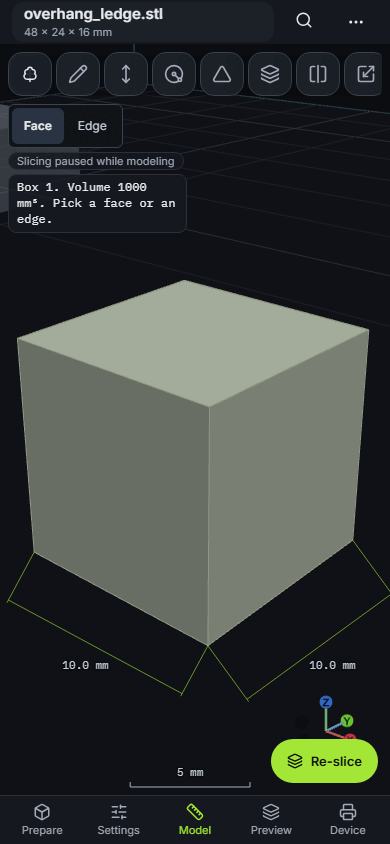
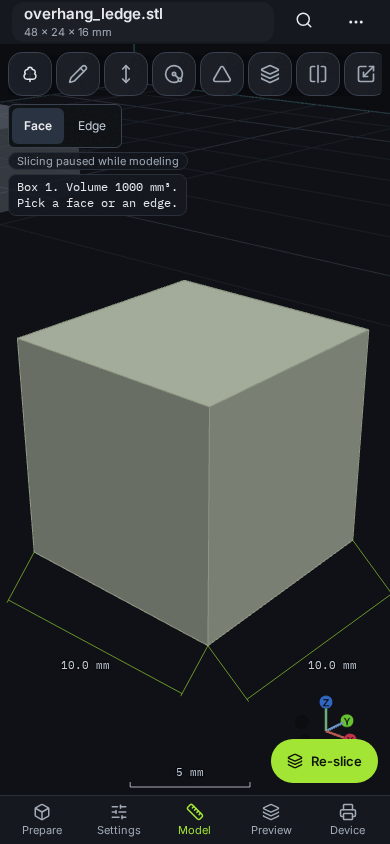
docs: refresh the README for 7.0.0, except the GT2 pulley
One Parts bullet for fasteners, fittings and brackets, the lust 0.3.2 line, the faster rib planner, and the buckling picture. Retake the lettering, phone and escapement pictures that changed on screen.

diff --git a/tools/readme-media/ribs.media.ts b/tools/readme-media/ribs.media.ts
@@ -1,0 +1,188 @@
+import { expect, test, type Page } from "@playwright/test";
+import { openApp, still } from "./media";
+
+/**
+ * Auto ribs with Resist buckling (docs/readme-media.md): a 64 × 40 × 14 mm box, shelled to a 2 mm wall with the top
+ * open, planned on the inner floor. The force along the floor is raised until the card says "Buckles at", so the
+ * numbers in the picture are the engine's. The part is built here. Nothing is loaded from outside the repository.
+ */
+const BOX = { modelDx: "64", modelDy: "40", modelDz: "14" };
+const TOP_MM2 = 64 * 40;
+const FLOOR_MM2 = (64 - 4) * (40 - 4);
+
+test("resist buckling on a shelled box", async ({ page }) => {
+  test.setTimeout(900_000);
+  await page.addInitScript(() => localStorage.setItem("lime-slice-auto-slice", "0"));
+  await openApp(page);
+  await page.locator("#tabModel").click();
+  await page.locator("#modelToolNew").click();
+  await page.locator('#modelPrim [data-kind="box"]').click();
+  for (const [id, value] of Object.entries(BOX)) await page.locator(`#${id}`).fill(value);
+  await page.locator("#modelApply").click();
+  await expect(page.locator("#modelReadout")).toContainText("Volume", { timeout: 120_000 });
+  await expect(page.locator("#modelPanel")).toBeHidden();
+
+  const top = await holeOrigin(page);
+  await page.locator("#modelToolShell").click();
+  await expect(page.locator("#modelShell")).toBeVisible();
+  await page.mouse.click(top.x, top.y);
+  await expect(page.locator("#modelReadout")).toContainText(`${TOP_MM2} mm²`);
+  await fill(page, "modelShell", "2");
+  await page.locator("#modelApply").click();
+  await expect.poll(async () => volume(page), { timeout: 120_000 }).toBeLessThan(15_000);
+
+  await page.locator("#modelFeatureMore").click();
+  await page.locator("#modelMenuAutoRibs").click();
+  await expect(page.locator("#modelPanelTitle")).toHaveText("Auto ribs");
+  await lookDown(page);
+  await page.locator("#autoRibsJustThis").check();
+  const floor = await innerFloor(page);
+  await expect(page.locator("#autoRibsWallLine")).toContainText("wall 2 mm");
+
+  await page.locator("#autoRibsHowMuch > summary").click();
+  await page.getByRole("button", { name: "Resist buckling" }).click();
+  await expect(page.locator("#autoRibsSliderMid")).toHaveText("3×");
+  await page.locator("#autoRibsHoldLoad > summary").click();
+  await page.locator("#autoRibsLoadForce").click();
+  await fill(page, "autoRibsDirX", "1");
+  await fill(page, "autoRibsDirY", "0");
+  await fill(page, "autoRibsDirZ", "0");
+  await fill(page, "autoRibsForce", "200");
+  await page.locator("#autoRibsLoadPick").click();
+  await page.mouse.click(floor.x, floor.y);
+
+  let force = 200;
+  let gain = "";
+  for (let attempt = 0; attempt < 3; attempt += 1) {
+    const field = page.locator("#autoRibsForce");
+    await field.scrollIntoViewIfNeeded();
+    await field.fill(String(force));
+    await field.press("Tab");
+    await expect(field).toHaveValue(String(force));
+    const previous = (await page.locator("#autoRibsGain").innerText()).trim();
+    await page.locator("#modelApply").click();
+    let outcome = "";
+    await expect.poll(async () => {
+      const error = page.locator("#autoRibsError");
+      if (await error.isVisible()) outcome = `error:${(await error.innerText()).trim()}`;
+      else if (await page.locator("#autoRibsGain").isVisible()) {
+        const text = (await page.locator("#autoRibsGain").innerText()).trim();
+        outcome = text && text !== previous ? `gain:${text}` : "";
+      } else outcome = "";
+      return outcome;
+    }, { timeout: 240_000 }).not.toBe("");
+    if (outcome.startsWith("error:")) throw new Error(`auto ribs: ${outcome.slice(6)}`);
+    gain = outcome.slice(5);
+    const held = /The wall already holds ([\d.]+)×/.exec(gain);
+    if (!held) break;
+    const factor = Number(held[1]);
+    const next = Math.max(force + 1, Math.ceil((force * factor) / 2.5));
+    console.log(`force ${force} N already holds ${factor}×; trying ${next} N`);
+    force = next;
+  }
+  await expect(page.locator("#autoRibsGain")).toHaveText(/^Buckles at \d+(\.\d)?× the load \(was \d+(\.\d)?×\)\.$/);
+  await expect(page.locator("#autoRibsNotes")).toContainText("This is the ideal buckling load. A curved wall, or one that isn't perfectly flat, can buckle well below it.");
+  await expect(page.locator(".toast-error")).toHaveCount(0);
+
+  await page.locator("#autoRibsNotes").scrollIntoViewIfNeeded();
+  await page.locator("#autoRibsGain").scrollIntoViewIfNeeded();
+  const box = (await page.locator("#model").boundingBox())!;
+  await page.mouse.move(box.x + 8, box.y + box.height - 8);
+  await page.waitForTimeout(600);
+  gain = (await page.locator("#autoRibsGain").innerText()).trim();
+  const notes = (await page.locator("#autoRibsNotes").innerText()).trim();
+  console.log(`ribs-buckling force ${force} N`);
+  console.log(`ribs-buckling gain: ${gain}`);
+  console.log(`ribs-buckling notes: ${notes}`);
+  await still(page, "ribs-buckling.png");
+});
+
+async function fill(page: Page, id: string, value: string) {
+  const field = page.locator(`#${id}`);
+  await field.fill(value);
+  await field.press("Tab");
+}
+
+async function volume(page: Page): Promise<number> {
+  const text = await page.locator("#modelReadout").innerText();
+  const match = /Volume ([\d.,]+) mm³/.exec(text);
+  return match ? Number(match[1]!.replace(/,/g, "")) : Number.NaN;
+}
+
+/** The Hole tool's origin dot, which the window puts on the middle of the top face. */
+async function holeOrigin(page: Page): Promise<{ x: number; y: number }> {
+  await page.locator("#modelToolHole").click();
+  await expect.poll(async () => handleAt(page, "hole-origin")).not.toBeNull();
+  const at = (await handleAt(page, "hole-origin"))!;
+  await page.locator("#modelCancel").click();
+  await expect(page.locator("#modelPanel")).toBeHidden();
+  return at;
+}
+
+async function handleAt(page: Page, id: string): Promise<{ x: number; y: number } | null> {
+  const text = (await page.locator("#model").getAttribute("data-handles")) ?? "";
+  const box = await page.locator("#model").boundingBox();
+  if (!box) return null;
+  for (const item of text.split(" ").filter(Boolean)) {
+    const [name, at] = item.split(":");
+    if (name !== id || !at) continue;
+    const [x, y] = at.split(",").map(Number);
+    if (x === undefined || y === undefined || Number.isNaN(x) || Number.isNaN(y)) continue;
+    return { x: box.x + x, y: box.y + y };
+  }
+  return null;
+}
+
+/** Top view, so the open top shows the inner floor. T is the Model command; blur first so it is not typed into a field. */
+async function lookDown(page: Page) {
+  await page.evaluate(() => {
+    const active = document.activeElement;
+    if (active instanceof HTMLElement) active.blur();
+  });
+  await page.keyboard.press("t");
+  await page.waitForTimeout(400);
+}
+
+/**
+ * Click the inner floor. Each try starts from a clear wall, because a click toggles the face it hits.
+ * The floor is the single face of about (64 − 4) × (40 − 4) mm², 2 mm thick.
+ */
+async function innerFloor(page: Page): Promise<{ x: number; y: number }> {
+  const box = (await page.locator("#model").boundingBox())!;
+  const points: { x: number; y: number }[] = [];
+  for (let row = 0; row < 5; row += 1) {
+    for (let col = 0; col < 5; col += 1) {
+      points.push({ x: box.x + box.width * (0.42 + col * 0.04), y: box.y + box.height * (0.42 + row * 0.04) });
+    }
+  }
+  let last = "";
+  for (const at of points) {
+    const clear = page.locator("#autoRibsWallClear");
+    if (await clear.isVisible()) await clear.click();
+    const hit = await clickFloor(page, at);
+    last = (await page.locator("#autoRibsWallLine").innerText()).replace(/\s+/g, " ");
+    if (hit) {
+      console.log(`inner floor: ${last}`);
+      return at;
+    }
+  }
+  await page.screenshot({ path: "/tmp/ribs-floor-miss.png" });
+  throw new Error(`inner floor (~${FLOOR_MM2} mm²) was not found; last wall line: ${last}`);
+}
+
+async function clickFloor(page: Page, at: { x: number; y: number }): Promise<boolean> {
+  const line = page.locator("#autoRibsWallLine");
+  await page.mouse.click(at.x, at.y);
+  let text = "";
+  try {
+    await expect.poll(async () => {
+      text = await line.innerText();
+      return /wall /.test(text) && !/reading/.test(text);
+    }, { timeout: 8_000 }).toBe(true);
+  } catch {
+    return false;
+  }
+  text = await line.innerText();
+  const area = Number(/([\d,]+) mm²/.exec(text)?.[1]?.replace(/,/g, ""));
+  return /^1 face/.test(text) && /wall 2 mm/.test(text) && Math.abs(area - FLOOR_MM2) < 200;
+}

diff --git a/README.md b/README.md
@@ -14,22 +14,20 @@ The pictures are the web UI in the dark theme against a local engine with the Op
 
 ### Model a part
 
-Model edits a STEP solid, or starts one from a primitive, a gear, a fastener, a fitting, a plate, an L-bracket, or a sketch on the bed or on a flat face. The sketcher has its own constraint solver: it keeps lines horizontal, vertical, square or equal as you draw, and a size can be a number or an expression that names a parameter. From a sketch you extrude, revolve, loft, sweep, or drill holes. On the solid you push and pull faces, fillet and chamfer edges, draft walls, shell, split, pattern, mirror and join, and add text. Every step goes into History, where you can reopen it with new numbers and the steps after it are built again.
+Model edits a STEP solid, or starts one from a primitive, a gear, a part, or a sketch on the bed or on a flat face. The sketcher has its own constraint solver: it keeps lines horizontal, vertical, square or equal as you draw, and a size can be a number or an expression that names a parameter. From a sketch you extrude, revolve, loft, sweep, or drill holes. On the solid you push and pull faces, fillet and chamfer edges, draft walls, shell, split, pattern, mirror and join, and add text. Every step goes into History, where you can reopen it with new numbers and the steps after it are built again.
 
 ![Sketching a 40 × 24 mm rectangle on the bed, extruding it 16 mm, cutting a 10 mm hole up through it, then editing the first extrude down to 12 mm from History.](docs/screenshots/clip-model.gif)
 
 - **Text** in Inter, IBM Plex Mono and Serif, Allerta Stencil, two pen fonts and five Hershey fonts, or a font file of your own. Letters go on flat faces and wrap round cylinders, cones, spheres, tori and freeform faces at their true size, raised or engraved.
 - **Gears.** New solid makes an involute spur gear, a ring (internal) gear or a rack. The gear card says whether it meshes with the gear it reaches, or how far off it is.
-- **Fasteners.** New solid's Part makes a hex nut (ISO 4032), a socket-head cap screw (ISO 4762), a hex-head screw (ISO 4017) or a washer (ISO 7089) from the standard's row. The shank is plain. A modelled thread is not available yet.
-- **Fittings.** The same Part button makes a spacer, a printed shaft (running, sliding or press), a shaft collar and a heat-set boss for a Ruthex RX insert.
-- **Brackets.** A plate and an L-bracket, with holes for an M3 to M24 screw (ISO 273 medium clearance, plus a printer allowance) or a free diameter.
+- **Parts.** New solid's Part has three groups. Fasteners: a hex nut (ISO 4032), a socket-head cap screw (ISO 4762), a hex-head screw (ISO 4017) or a washer (ISO 7089), from the standard's row. The shank is plain. A modelled thread is not available yet. Fittings: a spacer, a shaft printed at an ISO 286 fit (running, sliding or press), a collar with a set screw, and a heat-set boss for a Ruthex RX insert. Brackets: a plate and an L-bracket, with holes sized by screw from the ISO 273 medium clearance, plus an allowance, or a free diameter. Each part is one History step you reopen with new sizes, and it works as a boolean tool.
 - **Split to print** cuts a part that is too large for the printer into pieces that fit, with straight or shaped cuts (lap, zig-zag, tongue, dovetail, or a sketched line) and dowels, plugs, keys or hardware holes to join them. The pieces become plate objects, each with its number on a cut face. It can also cut for the Formlabs Form 4 and export STEP, 3MF or STL.
 - **Draft** tilts walls that are already there, a STEP part's included, so a moulded or cast part releases: pick the walls, then Draft in the face menu, an angle and the pull direction. A positive angle opens them toward the pull.
 - **Print transition** adds a flat wedge in a concave corner, or a gusset under a lip, so each row stands on the row before.
 - **STEP in and out.** A STEP file with several solids can open as one object per solid. The STEP button writes the solid on screen as AP214.
 - **Measure, Check, Section view**, and a part you hide to reach the one behind it.
 
-<img alt="Raised Inter Bold letters wrapped round a 44 mm cylinder, with History showing the cylinder and the text step." src="docs/screenshots/model-text.png" width="720">
+<img alt="Raised Inter Bold letters wrapped round a 44 mm cylinder, with History showing the cylinder and the text step. A banner says supports are off and 14 overhangs would print in the air." src="docs/screenshots/model-text.png" width="720">
 
 <img alt="Split to print on a 320 mm bar: the card says the Lime 220 bed fits 210 mm and proposes one cut; the two pieces are coloured on either side of the plane." src="docs/screenshots/model-split.png" width="720">
 
@@ -48,11 +46,11 @@ Parts can be attached into an assembly and given joints: fixed, hinge, slide, ba
 
 <img alt="A Graham escapement run in time: the pendulum swings, the anchor rocks and the escape wheel steps a tooth each beat. Drawn by the MCP server's motion_run." src="docs/screenshots/clip-escapement.gif" width="300">
 
-The escapement above was built and run over MCP with `motion_run`: from a 3.5° push it settles at a swing of 3.1° each side with a period of 0.78 s. Assemblies also export as STEP, and an interference check lists parts that cross.
+The escapement above was built and run over MCP with `motion_run`: from a 3.5° push the swing is still falling, last 3.127° each side, and the free period is 0.739 s. Assemblies also export as STEP, and an interference check lists parts that cross.
 
 ### Plugins and recipes
 
-A recipe is a short Rust program that builds a part or a whole assembly. The desktop app compiles it with the bundled lust compiler. A recipe kept as a plugin goes into your plugin library, and **Features → Plugins…** (Ctrl+Alt+L) runs it on the open part or as a new one, with a form for its values, a face or an outline you pick, and saved presets. A plugin's step stays live in History: change a value and it is built again. The same panel lists ingredients (shared code), presets, and lessons, the notes an agent left about each kind of step. Plugins export as one file you can share, and an imported plugin shows its code before its first run. Recipes run in the desktop app and over MCP, not in a plain browser.
+A recipe is a short Rust program that builds a part or a whole assembly. The desktop app compiles it with lust 0.3.2. Checks and rebuilds are faster. A recipe kept as a plugin goes into your plugin library, and **Features → Plugins…** (Ctrl+Alt+L) runs it on the open part or as a new one, with a form for its values, a face or an outline you pick, and saved presets. A plugin's step stays live in History: change a value and it is built again. The same panel lists ingredients (shared code), presets, and lessons, the notes an agent left about each kind of step. Plugins export as one file you can share, and an imported plugin shows its code before its first run. Recipes run in the desktop app and over MCP, not in a plain browser.
 
 ### Slice
 
@@ -109,12 +107,14 @@ Model → Stress… estimates how a part takes a load, solved as it will be prin
 
 The worked example and the trust levels are in [docs/modeler-guide.md](docs/modeler-guide.md#stress-estimate).
 
-**Auto ribs** (Features → Auto ribs, next to Stress) plans ribs on a wall so it bends less for the least added material: click the wall, Run, and Apply puts the ribs in History as one step. The plan says how much stiffer the wall gets and compares the ribs with a thicker wall and an even grid of the same stiffness.
+**Auto ribs** (Features → Auto ribs, next to Stress) plans ribs on a wall so it bends less for the least added material: click the wall, Run, and Apply puts the ribs in History as one step. The plan says how much stiffer the wall gets and compares the ribs with a thicker wall and an even grid of the same stiffness. Planning is faster; the ribs are the same.
 
 - **Load cases.** Add a load case gives up to eight named cases with a weight each; the ribs serve all of them, and the result gives each case's stiffness, with Check with Stress run once per case.
-- **Resist buckling.** Beside Stiffer and Higher frequency. The slider asks the wall to hold 1.5×, 2×, 3×, 4× or 5× the load before it buckles; the middle, 3×, is the default. The result says the factor before and after, and that the number is the ideal buckling load.
+- **Resist buckling.** Beside Stiffer and Higher frequency. The slider asks the wall to hold 1.5×, 2×, 3×, 4× or 5× the load before it buckles; the middle, 3×, is the default. The result says the factor before and after, and that the number is the ideal buckling load. With several load cases the card says Against case and names the one it solved.
 - **Side walls.** Include side walls (folded) takes a cover's side walls into the same wall across its sharp edges, so ribs can run over a crease. It is off unless checked.
 - **Moulding checks.** With the moulded process, the result lists each moulding rule a rib breaks: base thickness, root radius, height, draft, the junction where ribs meet, and the gap between ribs. It is a report and changes nothing.
+
+<img alt="Auto ribs, Resist buckling, on the inner floor of a 64 × 40 × 14 mm box shelled to a 2 mm wall with the top open. The floor is 2,160 mm². The card says Buckles at 4.2× the load (was 2.5×), and that this is the ideal buckling load." src="docs/screenshots/ribs-buckling.png" width="720">
 
 The stiffness numbers are relative, since the material cards are placeholders. Over MCP the same planner is `ribs_plan` and `ribs_apply`.
 
@@ -208,7 +208,7 @@ These builds are unsigned. macOS Gatekeeper and Windows SmartScreen will warn, a
 | `TAURI_SIGNING_PRIVATE_KEY` | Updater minisign private key |
 | `TAURI_SIGNING_PRIVATE_KEY_PASSWORD` | Password for that updater key |
 
-A Windows Authenticode certificate is not configured either. A manual run creates or updates the draft release `v<app version>` from `src-tauri/tauri.conf.json` (6.13.0). Publishing that draft is a separate step. Draft releases through v6.12.0 are already on the repository.
+A Windows Authenticode certificate is not configured either. A manual run creates or updates the draft release `v<app version>` from `src-tauri/tauri.conf.json` (6.13.0). Publishing that draft is a separate step. Releases through v6.13.0 are on the repository.
 
 ## Samples
 

diff --git a/docs/readme-media.md b/docs/readme-media.md
@@ -12,6 +12,7 @@ The pictures and clips in `README.md` are made by `tools/readme-media`, so they 
 | `clip-gear-train.gif` | `pose.media.ts` | three gears built by `mcp-media.ts`, coupled in Pose and turned |
 | `clip-escapement.gif` | `mcp-media.ts` | a Graham escapement run by `motion_run` and drawn by the MCP server |
 | `stress-cantilever.png` | `stress.media.ts` | the Stress worked example, with the engine's recorded reply (`e2e/fixtures/sim-cantilever.json`) |
+| `ribs-buckling.png` | `ribs.media.ts` | a 64 × 40 × 14 mm box, shelled to a 2 mm wall with the top open, then Auto ribs on the inner floor at Resist buckling (the default 3×) with a force along the floor. The card shows "Buckles at N× the load (was M×)." and the ideal-load warning |
 | `prepare-phone.png`, `preview-phone.png`, `model-phone.png` | `phone.media.ts` | the compact layout at 390 × 844 |
 
 The other files in `docs/screenshots` belong to other documents (`docs/step-modeler.md`, the tutorials and the reviews).
